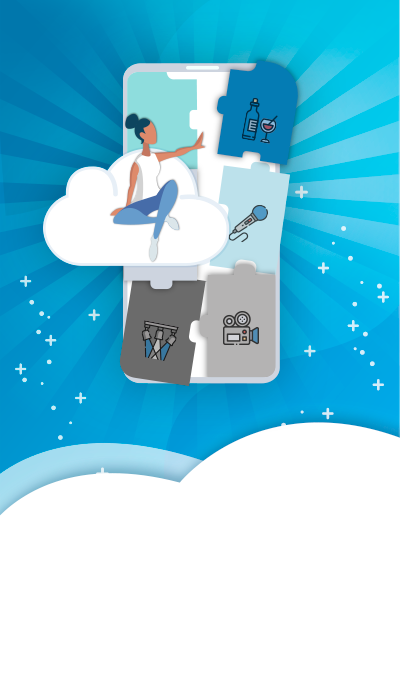
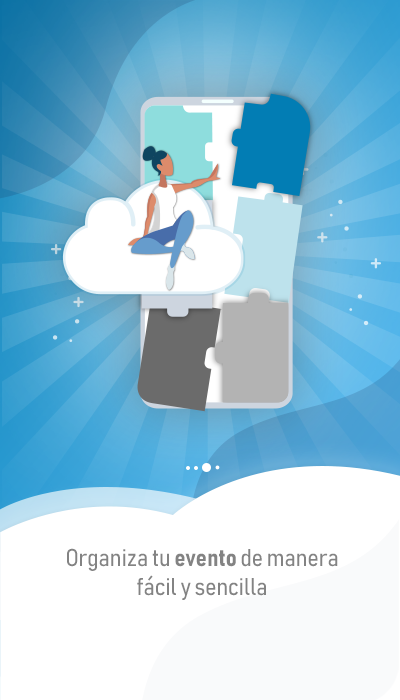
Cambios de iconos y mas

diff --git a/client/src/pages/proveedor/Slider.vue b/client/src/pages/proveedor/Slider.vue
@@ -3,9 +3,7 @@
     <q-tab-panels v-model="tab" animated style="padding:0px;margin:0px">
       <q-tab-panel name="one" style="padding:0px;margin:0px">
         <div class="slider-1" @click="next"/>
-        <div class="column items-center justify-center vertical-bottom q-mb-lg text-grey-8" style="font-size:20px">
-          <label>Bienvenido a HEVENT</label>
-          <label>tu mejor aliado Conoce más...</label>
+        <div class="column items-center justify-center fixed-bottom vertical-bottom q-mb-lg text-grey-8" style="font-size:16px">
           <div class="row justify-between q-mt-md">
             <q-btn color="primary" label="Registrarse" to="/registro_proveedor" />
             <q-space />
@@ -15,9 +13,7 @@
       </q-tab-panel>
       <q-tab-panel name="two" style="padding:0px;margin:0px">
         <div class="slider-2" @click="next"/>
-        <div class="column items-center justify-center vertical-bottom q-mb-lg text-grey-8" style="font-size:20px; text-align:center">
-          <label>Nosotros te llevamos tus Clientes</label>
-          <label>y te lo mostramos con Estadísticas</label>
+        <div class="column items-center justify-center fixed-bottom vertical-bottom q-mb-lg text-grey-8" style="font-size:16px; text-align:center">
           <div class="row justify-between q-mt-md">
             <q-btn color="primary" label="Registrarse" to="/registro_proveedor" />
             <q-space />
@@ -27,8 +23,7 @@
       </q-tab-panel>
       <q-tab-panel name="tree" style="padding:0px;margin:0px">
         <div class="slider-3" @click="next"/>
-        <div class="column items-center justify-center vertical-bottom q-mb-lg text-grey-8 q-pl-lg q-pr-lg" style="font-size:20px; text-align:center">
-          <p>Recibe Solicitudes y Cotiza</p>
+        <div class="column items-center justify-center fixed-bottom vertical-bottom q-mb-lg text-grey-8 q-pl-lg q-pr-lg" style="font-size:16px; text-align:center">
           <div class="row justify-between q-mt-md">
             <q-btn color="primary" label="Registrarse" to="/registro_proveedor" />
             <q-space />
@@ -38,8 +33,7 @@
       </q-tab-panel>
       <q-tab-panel name="four" style="padding:0px;margin:0px">
         <div class="slider-4" @click="next"/>
-        <div class="column items-center justify-center vertical-bottom q-mb-lg text-grey-8 q-pl-lg q-pr-lg" style="font-size:20px; text-align:center">
-          <p>Realiza un evento más</p>
+        <div class="column items-center justify-center fixed-bottom vertical-bottom q-mb-lg text-grey-8 q-pl-lg q-pr-lg" style="font-size:16px; text-align:center">
           <div class="row justify-between q-mt-md">
             <q-btn color="primary" label="Registrarse" to="/registro_proveedor" />
             <q-space />
@@ -49,8 +43,7 @@
       </q-tab-panel>
     <q-tab-panel name="five" style="padding:0px;margin:0px" @click="next">
         <div class="slider-5" @click="next"/>
-        <div class="column items-center justify-center vertical-bottom q-mb-lg text-grey-8 q-pl-lg q-pr-lg" style="font-size:20px; text-align:center">
-          <p>Inscribete de Manera anual y has Crecer tu negocio</p>
+        <div class="column items-center justify-center fixed-bottom vertical-bottom q-mb-lg text-grey-8 q-pl-lg q-pr-lg" style="font-size:16px; text-align:center">
           <div class="row justify-between q-mt-md">
             <q-btn color="primary" label="Registrarse" to="/registro_proveedor" />
             <q-space />
@@ -89,27 +82,27 @@ export default {
 <style>
 .slider-1 {
   background: url('../../../public/SliderProveedor/Mesa de trabajo 1.png');
-  height: 80vh;
+  height: 100vh;
   background-size: 100% 100%;
 }
 .slider-2 {
   background: url('../../../public/SliderProveedor/Mesa de trabajo 2.png');
-  height: 80vh;
+  height: 100vh;
   background-size: 100% 100%;
 }
 .slider-3 {
   background: url('../../../public/SliderProveedor/Mesa de trabajo 3.png');
-  height: 80vh;
+  height: 100vh;
   background-size: 100% 100%;
 }
 .slider-4 {
   background: url('../../../public/SliderProveedor/Mesa de trabajo 4.png');
-  height: 80vh;
+  height: 100vh;
   background-size: 100% 100%;
 }
 .slider-5 {
   background: url('../../../public/SliderProveedor/Mesa de trabajo 5.png');
-  height: 80vh;
+  height: 100vh;
   background-size: 100% 100%;
 }
 .responsive {

diff --git a/client/src/pages/Inicio/Slider.vue b/client/src/pages/Inicio/Slider.vue
@@ -2,21 +2,11 @@
   <div style="padding:0px;margin:0px">
     <q-tab-panels v-model="tab" animated style="padding:0px;margin:0px">
       <q-tab-panel name="one" style="padding:0px;margin:0px">
-        <q-img src="400x700/Mesa de trabajo 2.png" @click="next" />
-        <div class="column items-center justify-center fixed-bottom vertical-bottom q-mb-lg text-grey-8" style="font-size:16px">
-          <label>Bienvenido a HEVENT</label>
-          <label>tu app de eventos Conoce más...</label>
-          <div class="row justify-between q-mt-md">
-            <q-btn color="primary" label="Registrarse" to="/registro_cliente" />
-            <q-space />
-            <q-btn color="primary" label="* Iniciar Sesión *" to="/login" flat />
-          </div>
-        </div>
+        <q-img src="400x700/Mesa de trabajo 1.png" @click="next" />
       </q-tab-panel>
       <q-tab-panel name="two" style="padding:0px;margin:0px">
-        <q-img src="400x700/Mesa de trabajo 3.png" @click="next" />
-        <div class="column items-center justify-center fixed-bottom vertical-bottom q-mb-lg text-grey-8 q-pl-lg q-pr-lg" style="font-size:16px; text-align:center">
-          <p>¿No sabes por donde empezar para organizar tu EVENTO?</p>
+        <q-img src="400x700/Mesa de trabajo 2.png" @click="next" />
+        <div class="column items-center justify-center fixed-bottom vertical-bottom q-mb-lg text-grey-8" style="font-size:16px">
           <div class="row justify-between q-mt-md">
             <q-btn color="primary" label="Registrarse" to="/registro_cliente" />
             <q-space />
@@ -25,9 +15,8 @@
         </div>
       </q-tab-panel>
       <q-tab-panel name="tree" style="padding:0px;margin:0px">
-        <q-img src="400x700/Mesa de trabajo 4.png" @click="next" />
+        <q-img src="400x700/Mesa de trabajo 3.png" @click="next" />
         <div class="column items-center justify-center fixed-bottom vertical-bottom q-mb-lg text-grey-8 q-pl-lg q-pr-lg" style="font-size:16px; text-align:center">
-          <p>Organiza tu EVENTO de manera fácil y sencilla.</p>
           <div class="row justify-between q-mt-md">
             <q-btn color="primary" label="Registrarse" to="/registro_cliente" />
             <q-space />
@@ -35,10 +24,19 @@
           </div>
         </div>
       </q-tab-panel>
-      <q-tab-panel name="four" style="padding:0px;margin:0px" @click="next">
+      <q-tab-panel name="four" style="padding:0px;margin:0px">
+        <q-img src="400x700/Mesa de trabajo 4.png" @click="next" />
+        <div class="column items-center justify-center fixed-bottom vertical-bottom q-mb-lg text-grey-8 q-pl-lg q-pr-lg" style="font-size:16px; text-align:center">
+          <div class="row justify-between q-mt-md">
+            <q-btn color="primary" label="Registrarse" to="/registro_cliente" />
+            <q-space />
+            <q-btn color="primary" label="* Iniciar Sesión *" to="/login" flat />
+          </div>
+        </div>
+      </q-tab-panel>
+      <q-tab-panel name="five" style="padding:0px;margin:0px" @click="next">
         <q-img src="400x700/Mesa de trabajo 5.png" />
         <div class="column items-center justify-center fixed-bottom vertical-bottom q-mb-lg text-grey-8 q-pl-lg q-pr-lg" style="font-size:16px; text-align:center">
-          <p>Tu EVENTO se realiza y sale correctamente.</p>
           <div class="row justify-between q-mt-md">
             <q-btn color="primary" label="Registrarse" to="/registro_cliente" />
             <q-space />
@@ -65,7 +63,8 @@ export default {
     next () {
       if (this.tab === 'one') { this.tab = 'two' } else
       if (this.tab === 'two') { this.tab = 'tree' } else
-      if (this.tab === 'tree') { this.tab = 'four' } else {
+      if (this.tab === 'tree') { this.tab = 'four' } else
+      if (this.tab === 'four') { this.tab = 'five' } else {
         this.$router.push('/login')
       }
     }

diff --git a/client/src/pages/client/VerificacionSms.vue b/client/src/pages/client/VerificacionSms.vue
@@ -1,23 +1,23 @@
 <template>
   <div>
     <div class="row justify-center">
-      <img src="Pagina10/Mesa de Trabajo 2.png" style="width: 100%;height:400px"/>
+      <img src="Pagina10/Verificacion Celular.png" style="width: 100%;height:100%"/>
     </div>
-    <div class="row justify-center text-subtitle2 text-center text-primary q-mt-sm q-mr-xl q-ml-xl q-mb-md">Te enviaremos un código de verificación de sms a tu celular</div>
-    <div class="row justify-center text-subtitle2 text-center text-grey q-mb-sm">Verificación móvil</div>
-    <div class="row justify-between q-mt-sm q-mr-xl q-ml-xl q-mb-md">
+    <div class="fixed-bottom vertical-bottom q-mb-sm q-ml-sm q-mr-sm">
+      <div class="row justify-between q-ml-xl q-mr-xl">
         <q-input style="width:50px" outlined v-model="form.cod1" :dense="dense" />
         <q-input style="width:50px" outlined v-model="form.cod2" :dense="dense" />
         <q-input style="width:50px" outlined v-model="form.cod3" :dense="dense" />
         <q-input style="width:50px" outlined v-model="form.cod4" :dense="dense" />
-    </div>
-    <div class="text-center q-ma-sm">
-      <q-btn color="primary" class="q-mr-sm button-border" style="width:200px" :loading="loading" type="submit" label="Siguiente">
-        <template v-slot:loading>
-          <q-spinner-hourglass class="on-left" />
-            Cargando...
-        </template>
-      </q-btn>
+      </div>
+      <div class="text-center q-ma-sm">
+        <q-btn color="primary" class="q-mr-sm button-border" style="width:200px" :loading="loading" type="submit" label="Siguiente">
+          <template v-slot:loading>
+            <q-spinner-hourglass class="on-left" />
+              Cargando...
+          </template>
+        </q-btn>
+      </div>
     </div>
   </div>
 </template>

diff --git a/client/src/layouts/MainLayout.vue b/client/src/layouts/MainLayout.vue
@@ -8,7 +8,7 @@
         <template v-for="(item, index) in buttons_footer" v-bin:key="index">
           <div v-if="can(item.permission)" v-bind:key="index">
             <q-btn :name="item.to" :label="item.title" flat round style="width: 60px; height: 60px" @click="$router.push(item.to)">
-              <img :src="item.icon" style="width: 30px; height: 30px"/>
+              <img :src="item.icon" style="width: 40px; height: 40px"/>
             </q-btn>
           </div>
         </template>
@@ -51,11 +51,11 @@ export default {
         { title: 'Mensajes', icon: 'question_answer', to: '/mensajes/mensajes', permission: 1 /* CLIENTE */ },
         { title: 'Cerrar Sesion', icon: 'logout', to: '/login', permission: 1 },
         // TODOS LOS ITEM EN MENU PARA LOS PROVEEDORES
-        { icon: 'icons/Iconos_Menu_5.png', to: '/inicio_proveedor', permission: 2 /* PROVEEDOR */ },
-        { icon: 'icons/Iconos_Menu_1.png', to: '/perfil_proveedor', permission: 2 /* PROVEEDOR */ },
-        { icon: 'icons/Iconos_Menu_2.png', to: '/calendario_eventos', permission: 2 }, // PROVEEDOR
-        { icon: 'icons/Iconos_Menu_3.png', to: '/chats_proveedor', permission: 2 },
-        { icon: 'icons/Iconos_Menu_4.png', to: '/perfil_proveedor', permission: 2 }
+        { icon: 'icons/Icono1.png', to: '/inicio_proveedor', permission: 2 /* PROVEEDOR */ },
+        { icon: 'icons/Icono2.png', to: '/perfil_proveedor', permission: 2 /* PROVEEDOR */ },
+        { icon: 'icons/Icono3.png', to: '/calendario_eventos', permission: 2 }, // PROVEEDOR
+        { icon: 'icons/Icono4.png', to: '/chats_proveedor', permission: 2 },
+        { icon: 'icons/Icono5.png', to: '/perfil_proveedor', permission: 2 }
       ]
     }
   }

diff --git a/client/src/pages/client/RegistroDenegado.vue b/client/src/pages/client/RegistroDenegado.vue
@@ -1,11 +1,8 @@
 <template>
   <div>
     <div class="row justify-between">
-      <img src="Pagina11/Mesa de trabajo 3.png" style="width: 100%;height:500px">
+      <img src="Pagina11/DenegadoRegistro.png" style="width: 100%;height:100%">
     </div>
-    <div class="text-center text-h6 text-red">¡Oh no!</div>
-    <div class="text-center text-subtitle1 text-grey">Código equivocado</div>
-    <div class="text-center text-subtitle1 text-grey">Inténtelo de nuevo por favor</div>
   </div>
 </template>
 <script>

diff --git a/client/src/pages/client/RegistroConfirmado.vue b/client/src/pages/client/RegistroConfirmado.vue
@@ -1,10 +1,8 @@
 <template>
   <div>
     <div class="row justify-between">
-      <img src="Pagina11/confirmado1.png" style="width: 100%;height:500px">
+      <img src="Pagina11/ConfirmadoRegistro.png" style="width: 100%;height:100%">
     </div>
-    <div class="text-center text-h6 text-primary">Confirmado su Registro!</div>
-    <div class="text-center text-subtitle1 text-grey">Gracias por Preferirnos</div>
   </div>
 </template>
 <script>
